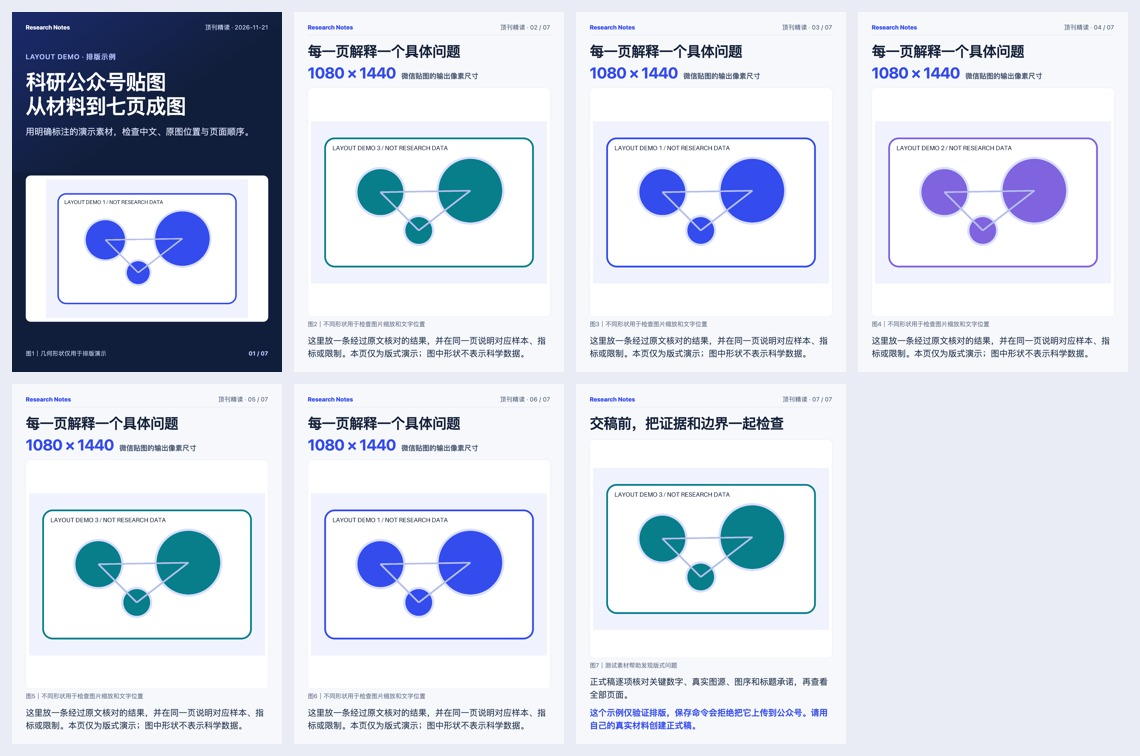
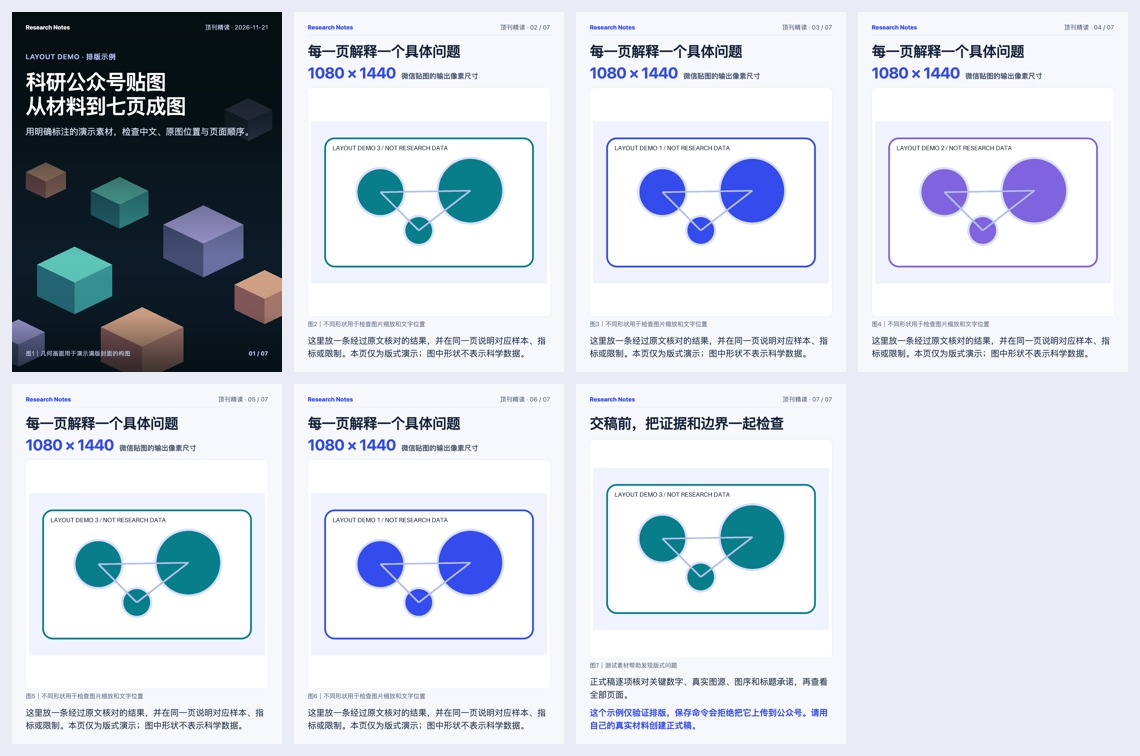
Restore full-bleed image covers and document source selection

Changed region(s): [[0.0, 0.0, 0.2456, 0.5172]]

diff --git a/templates/newspic_cards.css b/templates/newspic_cards.css
@@ -4,11 +4,20 @@ body{font-family:-apple-system,BlinkMacSystemFont,"PingFang SC","Noto Sans CJK S
 .card{width:1080px;height:1440px;position:relative;overflow:hidden;page-break-after:always;background:#111e3b;color:white}
 .media{position:absolute;inset:0;width:100%;height:100%;object-fit:cover}
 /* Expanded editions keep one finding and its original visual on each page. */
-.multi-cover .media { object-fit: cover; }
+.multi-cover .media {
+  inset: 0;
+  width: 100%;
+  height: 100%;
+  object-fit: cover;
+  padding: 0;
+  border: 0;
+  border-radius: 0;
+  background: transparent;
+}
 .multi-shade {
   position: absolute;
   inset: 0;
-  background: linear-gradient(180deg, rgba(8,17,17,.98) 0%, rgba(8,17,17,.86) 30%, rgba(8,17,17,.07) 69%, rgba(8,17,17,.83) 100%);
+  background: linear-gradient(180deg, rgba(4,12,14,.94) 0%, rgba(4,12,14,.82) 30%, rgba(4,12,14,.48) 46%, rgba(4,12,14,.08) 68%, rgba(4,12,14,.12) 84%, rgba(4,12,14,.68) 100%);
 }
 .multi-cover-head, .multi-cover-foot, .multi-head {
   display: flex;
@@ -146,12 +155,10 @@ body{font-family:-apple-system,BlinkMacSystemFont,"PingFang SC","Noto Sans CJK S
 .multi-copy p{font-size:34px;line-height:1.52;color:#263650}
 .multi-copy p+p{margin-top:20px}
 .multi-copy .multi-takeaway{font-weight:650;color:#344bee}
-.multi-cover{background:#111e3b;color:white}
-.multi-cover .media{left:55px;top:654px;width:970px;height:585px;object-fit:contain!important;background:white;border-radius:20px;padding:15px}
-.multi-shade{background:linear-gradient(145deg,rgba(52,75,238,.28),transparent 58%);height:640px}
+.multi-cover{background:#071112;color:white}
 .multi-cover-head{left:55px;right:55px;top:45px;font-size:24px;color:#c8d2ee}
 .multi-cover-head b{color:white;letter-spacing:0}
-.multi-cover-copy{left:55px;right:55px;top:159px}
+.multi-cover-copy{left:55px;right:55px;top:159px;background:transparent}
 .multi-kicker{font-size:28px;font-weight:600;color:#b4c1ff;letter-spacing:2px}
 .multi-cover-copy h1{font-size:82px;line-height:1.18;letter-spacing:-2px;margin:31px 0 28px}
 .multi-cover-copy p{font-size:35px;line-height:1.5;max-width:910px;color:#d8e0f7}

diff --git a/scripts/create_demo.py b/scripts/create_demo.py
@@ -8,6 +8,28 @@ from manifest import digest, write_json
 from newspic import FORMAT_CONTRACT
 
 
+def create_cover_fixture(path):
+    """Owned abstract artwork for crop/layout checks, never a scientific image."""
+    image=Image.new('RGB',(1080,1440))
+    draw=ImageDraw.Draw(image)
+    for y in range(1440):
+        t=y/1439
+        draw.line((0,y,1080,y),fill=(int(20-9*t),int(39-15*t),int(54-17*t)))
+    def cube(x,y,size,top,left,right):
+        half=size*.48;height=size*.84
+        draw.polygon([(x,y-half),(x+size,y),(x,y+half),(x-size,y)],fill=top)
+        draw.polygon([(x-size,y),(x,y+half),(x,y+half+height),(x-size,y+height)],fill=left)
+        draw.polygon([(x,y+half),(x+size,y),(x+size,y+height),(x,y+half+height)],fill=right)
+    teal=('#65D4C7','#276D7C','#3B9EA0')
+    lavender=('#AAA6E4','#4A527C','#7279AF')
+    coral=('#E4AF91','#915F61','#B78376')
+    for x,y,size,palette in [(945,390,95,lavender),(135,640,80,coral),(430,715,115,teal),
+                               (765,850,160,lavender),(250,1010,150,teal),(1010,1090,120,coral),
+                               (520,1260,165,coral),(25,1280,105,lavender)]:
+        cube(x,y,size,*palette)
+    image.save(path)
+
+
 def create(out, pages=3):
     out=Path(out)
     if out.exists() and any(out.iterdir()):
@@ -31,11 +53,17 @@ def create(out, pages=3):
             origin_url='https://github.com/yetong0516/wechat-newspic-skill/blob/main/scripts/create_demo.py',
             credit='AI For Bios / layout demonstration',license='Repository LICENSE (BSL terms); generated layout fixture',
             asset_type='layout_demo',retrieval_method='generated-fixture',sha256=digest(path.read_bytes()),width=1600,height=1100))
-    caption=('这是一份公众号贴图的排版演示，三幅几何图都是程序绘制的测试素材，用来检查封面、证据页、收尾页与中文排版。'
+    cover=out/'images/layout-cover.png'
+    create_cover_fixture(cover)
+    records.append(dict(file='images/layout-cover.png',source_page_url='https://github.com/yetong0516/wechat-newspic-skill',
+        origin_url='https://github.com/yetong0516/wechat-newspic-skill/blob/main/scripts/create_demo.py',
+        credit='AI For Bios / abstract layout demonstration',license='Repository LICENSE (BSL terms); generated layout fixture',
+        asset_type='layout_demo',retrieval_method='generated-fixture',sha256=digest(cover.read_bytes()),width=1080,height=1440))
+    caption=('这是一份公众号贴图的排版演示，几何图都是程序绘制的测试素材，用来检查封面、证据页、收尾页与中文排版。'
              '图中不含实验结果，也不代表任何模型性能。正式制作时，需要换成经过核验并记录来源与许可的真实图片，逐页查看成图后再保存草稿。'
              '\n\n示例：https://github.com/yetong0516/wechat-newspic-skill\n\n#排版演示 #科研传播')
-    cards=[dict(role='cover',image='images/layout-1.png',headline='科研公众号贴图\n从材料到七页成图' if pages==7 else '科研公众号贴图\n从材料到三页成图',kicker='LAYOUT DEMO · 排版示例',
-        dek='用明确标注的演示素材，检查中文、原图位置与页面顺序。',credit='图1｜几何形状仅用于排版演示')]
+    cards=[dict(role='cover',image='images/layout-cover.png',headline='科研公众号贴图\n从材料到七页成图' if pages==7 else '科研公众号贴图\n从材料到三页成图',kicker='LAYOUT DEMO · 排版示例',
+        dek='用明确标注的演示素材，检查中文、原图位置与页面顺序。',credit='图1｜几何画面用于演示满版封面的构图',focal_point={'x':0.5,'y':0.6})]
     for i in range(2,pages):
         cards.append(dict(role='evidence',image=f'images/layout-{1+(i%3)}.png',headline='每一页解释一个具体问题',stat='1080 × 1440',stat_label='微信贴图的输出像素尺寸',
             note='这里放一条经过原文核对的结果，并在同一页说明对应样本、指标或限制。本页仅为版式演示；图中形状不表示科学数据。',credit=f'图{i}｜不同形状用于检查图片缩放和文字位置'))

diff --git a/tests/test_pipeline.py b/tests/test_pipeline.py
@@ -114,8 +114,43 @@ class ContractTests(unittest.TestCase):
             path=Path(tmp);data=fixture(path)
             # An exact relative path must be present, even if a different folder uses the same basename.
             src=json.loads((path/'sources.json').read_text())
-            src['images'][0]['file']='another/layout-1.png';manifest.write_json(path/'sources.json',src)
+            used=data['cards'][0]['image']
+            next(record for record in src['images'] if record['file']==used)['file']='another/'+Path(used).name
+            manifest.write_json(path/'sources.json',src)
             self.assertFalse(newspic.validate_newspic(path,data,require_rendered=False)['passed'])
+
+
+class CoverLayoutTests(unittest.TestCase):
+    def test_cover_fills_canvas_and_respects_focal_point(self):
+        from playwright.sync_api import sync_playwright
+        with tempfile.TemporaryDirectory() as tmp, sync_playwright() as pw:
+            browser=pw.chromium.launch(headless=True)
+            for count in (3,7):
+                with self.subTest(pages=count):
+                    path=Path(tmp)/str(count);create_demo.create(path,count)
+                    data=newspic.load_newspic(path);data['cards'][0]['focal_point']={'x':.75,'y':.6}
+                    page=browser.new_page(viewport={'width':1080,'height':1440})
+                    (path/'newspic.html').write_text(newspic.build_html(path,data),encoding='utf-8')
+                    page.goto((path/'newspic.html').as_uri(),wait_until='networkidle')
+                    page.evaluate('document.fonts.ready')
+                    boxes=page.evaluate('''() => {
+                      const card=document.querySelector('.multi-cover');
+                      const image=card.querySelector('.media'),shade=card.querySelector('.multi-shade');
+                      const copy=card.querySelector('.multi-cover-copy');
+                      const rect=e=>{const r=e.getBoundingClientRect();return [r.x,r.y,r.width,r.height]};
+                      const s=getComputedStyle(image);
+                      return {card:rect(card),image:rect(image),shade:rect(shade),fit:s.objectFit,
+                        position:s.objectPosition,padding:s.padding,border:s.borderWidth,radius:s.borderRadius,
+                        copyBackground:getComputedStyle(copy).backgroundColor,copyBottom:copy.getBoundingClientRect().bottom};
+                    }''')
+                    self.assertEqual(boxes['card'],boxes['image'])
+                    self.assertEqual(boxes['card'],boxes['shade'])
+                    self.assertEqual(boxes['fit'],'cover');self.assertEqual(boxes['position'],'75% 60%')
+                    for prop in ('padding','border','radius'):self.assertEqual(boxes[prop],'0px')
+                    self.assertEqual(boxes['copyBackground'],'rgba(0, 0, 0, 0)')
+                    self.assertLess(boxes['copyBottom'],1440*.55)
+                    page.close()
+            browser.close()
 
 
 class DeliveryTests(unittest.TestCase):

diff --git a/references/cover-design.md b/references/cover-design.md
@@ -1,0 +1,28 @@
+# 贴图封面：先选底图，再排文字
+
+默认采用有完整画面感的原图铺满1080×1440画布。标题直接叠在画面上，上部用深色渐变保证阅读，下部保留主体、细节和层次。三页版与多页版共用这一原则。
+
+## 选图
+
+- 优先与主题直接相关、能独立撑起画面的实验照片、显微图、仪器或样品场景，以及研究机构/团队的官方主视觉。官方插画也可以，记录它的真实来源与性质。
+- 选图时先看主体是否清楚、画面有无前后层次、上部是否能承载标题、竖向裁切后关键物体是否完整。分辨率足够不等于适合当封面。
+- 密集论文流程图、表格、整页PDF和应用截图通常留在正文证据页。不要为了填充封面，直接把难读的论文页面放进白色卡框。
+- 找不到适合满版裁切的素材时，继续找该主题的官方主视觉或其他有依据的原图；在审核记录中说明素材限制，不用无关漂亮图片或虚构实验图凑数。
+
+## 构图
+
+- 底图使用 `object-fit: cover` 铺满画布，保持原始比例。封面主图不带白色底框、圆角容器或内边距。
+- 页眉与栏目/日期放上方，主标题一般两行，下面一句必要背景；正文页可继续使用白底证据图框。
+- 标题直接压在画面上。上方渐变较深，中下部逐步变透，底端再适度压暗以承载图注与页码。不要把整张图一并压黑，也不要用不透明实色面板挡住画面。
+- 用 cover 卡片的 `focal_point: {"x": 0.5, "y": 0.65}` 调整可见主体。值在0–1之间，映射到CSS `object-position`；宽图竖裁时尤其要检查人物、培养皿、仪器或显微主体是否被切掉。
+- 图片允许作为封面进行编辑裁切，但不能借裁切更改数据含义。需要完整标签、比例尺和对照关系的证据图放到正文中完整呈现。
+- 默认把标题和副标题收在画布上半部，留出中下部给主体。字太多时压缩文案，不恢复“上半部大色块、下半部白框截图”的版式。
+
+## 交稿前看成图
+
+1. 在原尺寸及手机缩略尺寸查看：第一眼能否看见主题相关主体，标题能否读清。
+2. 核对背景确实满版、没有拉伸、裁切焦点正确，主体没有被文字遮住。
+3. 查看首图的方形和横向封面裁切；必要时调整标题/焦点，保留用户已有的后台裁切设置。
+4. 逐页确认其余证据页没有因封面CSS调整而变化。
+
+仓库演示里的几何底图只用于展示这套版式，标记为`demo_only`并禁止上传，不是正式科研封面素材的替代品。图片来源与公开复用许可仍按`sources.json`逐图记录。

diff --git a/SKILL.md b/SKILL.md
@@ -21,6 +21,8 @@ Map every consequential claim to a source location. Keep denominators, models, s
 
 Prefer authentic source images. Record URL, author, license status, hash, dimensions and any crop in `sources.json`. Do not generate scientific results, interfaces or comments. An unknown redistribution license must remain unknown. The bundled demo is explicitly a layout fixture; its upload is disabled. For the Science example, [supply a lawful local PDF](examples/sequential-diagnosis/README.md); the repository does not distribute that PDF or its images.
 
+For every cover, read [cover selection and composition](references/cover-design.md). Choose a strong, topic-relevant photograph, microscopy image or official key visual first. Fill the entire canvas with it; overlay the title on a dark upper gradient and leave the lower subject visible. Do not put the cover image inside a white rounded panel. Dense paper diagrams and tables normally belong on evidence pages. Use `focal_point` and inspect the actual crop; do not override the template back to a split layout in draft-local CSS.
+
 Draft `newspic.json` using one question per page: a cover, evidence pages, and an evidence-based conclusion or limitation. Keep the caption 80–180 Chinese characters, include the primary URL and 2–4 hashtags, and use a 12–24-character title. Visible figure captions describe the image in one sentence; full provenance belongs in `sources.json`.
 
 ## Render and inspect

diff --git a/references/content-contract.md b/references/content-contract.md
@@ -18,6 +18,8 @@
 
 Cover fields: `image`, `headline`, `kicker`, `credit`; optional `dek`. Evidence: `image`, `headline`, `stat`, `stat_label`, `note`, `credit`. Boundary: `image`, `headline`, `claim`, `limit`, `credit`. The last two fields become natural paragraphs rather than canned “did/did not prove” badges.
 
+The cover uses a full-canvas image, an upper dark gradient and overlaid text, with no white image frame. Set optional `focal_point` (`x` and `y`, each 0–1) to keep the subject visible during `object-fit: cover` cropping. Read [cover design](cover-design.md) before choosing the image. Evidence-page image frames are unchanged.
+
 All pages need a local image. Optional `companion_image` gives a second panel. `panels` with `panel_layout` supports `grid-2`/`grid-3` (six panels) or `lead-left`/`lead-top` (three panels). Each panel uses `image`, optional `label`, `fit` (`contain`/`cover`) and `position` (`center`/`top`/`bottom`). Keep panel order, scales and labels faithful to the original. Review crops visually.
 
 `sources.json.images` maps exact relative paths to records, not basenames. Each used image needs `file`, `source_page_url`, `origin_url`, `asset_type`, `retrieval_method`, `credit`, `license`, `sha256`, `width`, `height`. The validator compares bytes and dimensions. Symlinks escaping the draft and parent traversal are rejected.

diff --git a/examples/sequential-diagnosis/README.md b/examples/sequential-diagnosis/README.md
@@ -4,6 +4,8 @@
 
 仓库不包含原PDF、论文图片、最终含论文图的PNG、公众号素材ID、后台快照或交付日志。图片公开转载许可未确认，因此不能从本仓库取得这些图或把代码许可当作图片许可。
 
+**封面选图：**这份早期内容配方仍引用论文Figure 1，用于本地复现和检查。正式制作时，按[封面设计](../../references/cover-design.md)另选与序列诊断相关的优质照片或官方主视觉，更新第一张卡片的`image`及`sources.json`记录；密集的Figure 1保留在证据页。仅提供论文PDF，并不意味着已经选好了适合满版的封面。
+
 自备合法取得的正式发表PDF后，在自己的草稿目录重建：
 
 ```bash

diff --git a/README.md b/README.md
@@ -6,6 +6,8 @@
 
 > 上图为明确标注的几何排版素材，不是实验数据。可运行示例默认禁止上传。
 
+封面采用**优质原图满版铺底、上部渐变压暗、标题直接叠加、中下部保留主体**的布局。正式制作优先选实验照片、显微画面或官方主视觉；密集论文截图通常放在正文证据页。选图与裁切规则见[封面设计](references/cover-design.md)。
+
 ## 包含什么
 
 | 内容 | 入口 |
